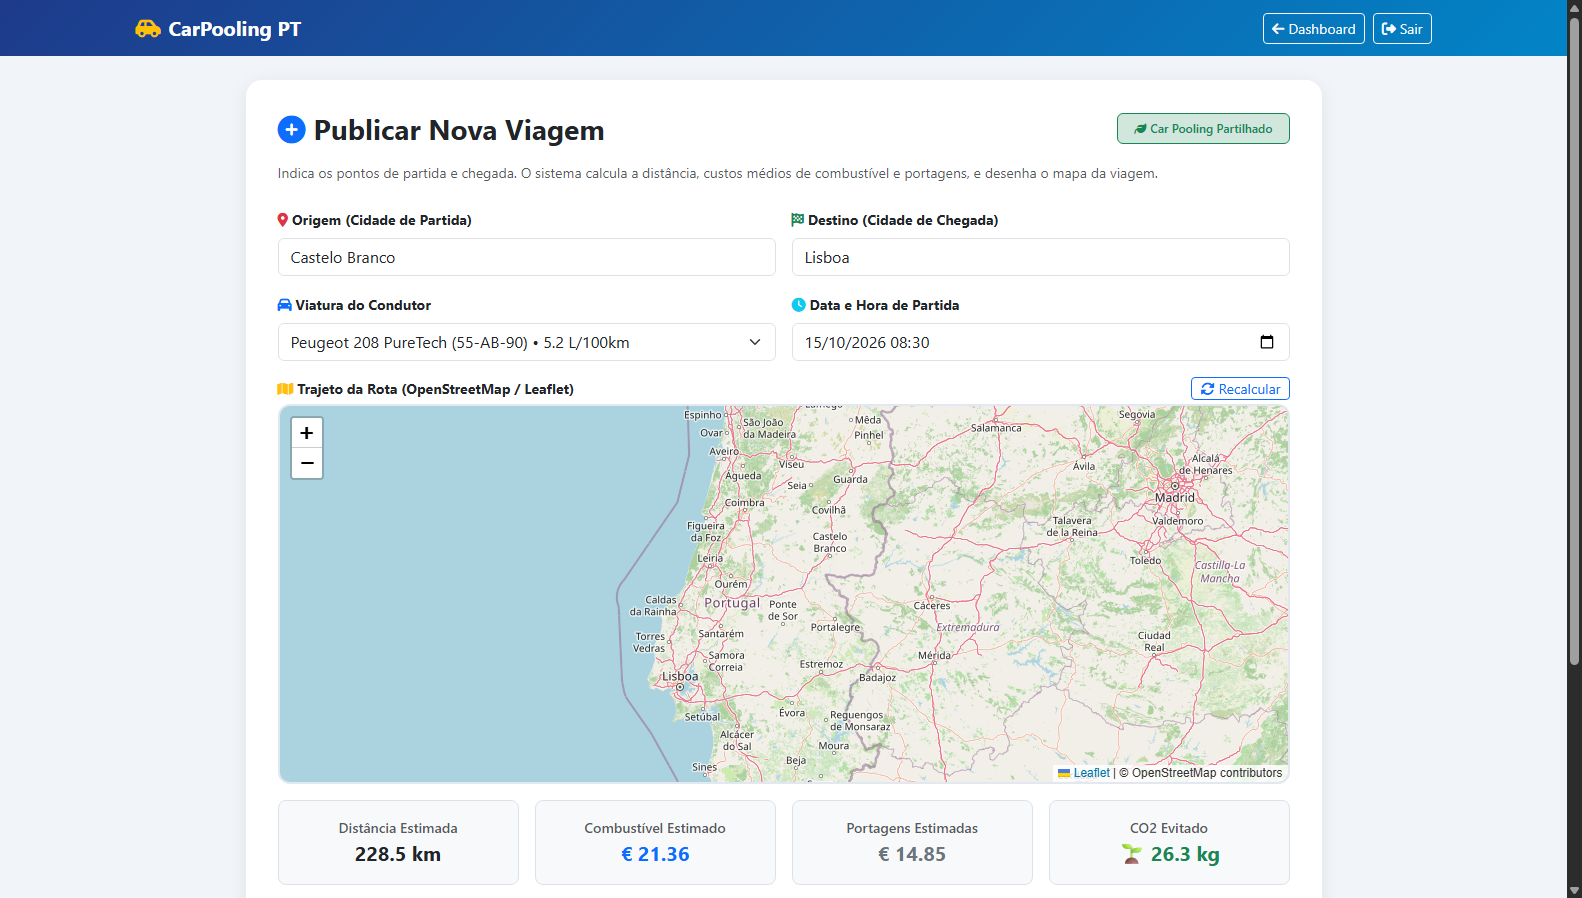
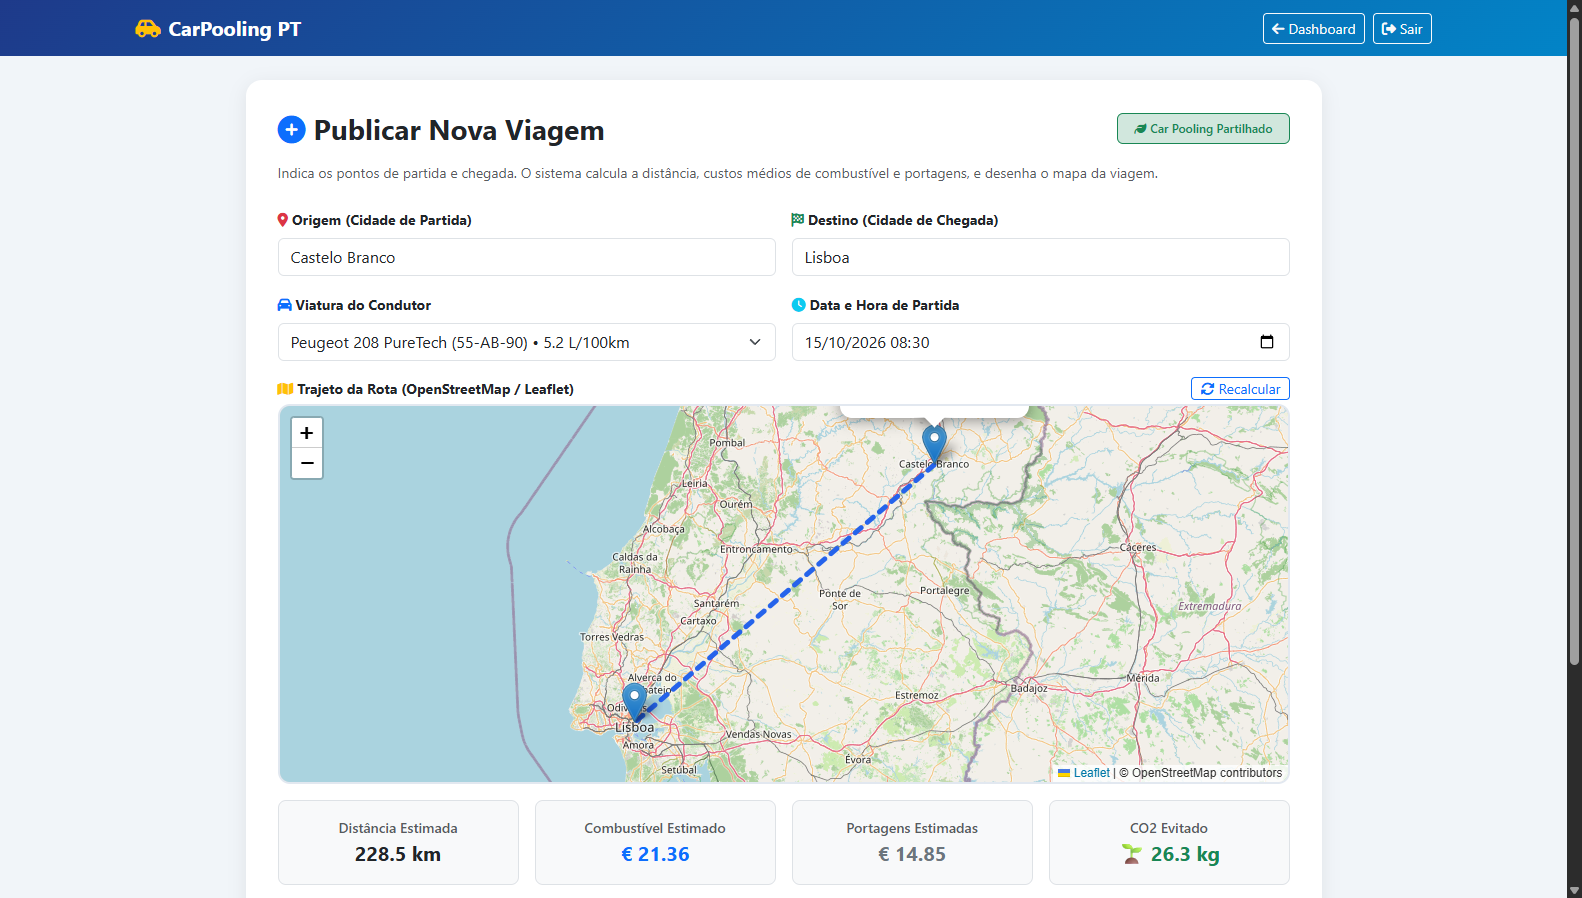
fix: resolve destination coordinates for Leaflet route maps and update screenshots

Changed region(s): [[0.3407, 0.4365, 0.8363, 0.8731]]

diff --git a/frontend-service/src/main/resources/templates/trips/search-trips.html b/frontend-service/src/main/resources/templates/trips/search-trips.html
@@ -187,21 +187,63 @@
         attribution: '&copy; OpenStreetMap'
     }).addTo(map);
 
-    if (trips && trips.length > 0) {
-        trips.forEach(t => {
-            const oLat = t.originLatitude || 39.8222;
-            const oLng = t.originLongitude || -7.4909;
-            const dLat = t.destinationLatitude || 38.7223;
-            const dLng = t.destinationLongitude || -9.1393;
+    const CITY_COORDS = {
+        'Castelo Branco': [39.8222, -7.4909],
+        'Lisboa': [38.7223, -9.1393],
+        'Porto': [41.1579, -8.6291],
+        'Coimbra': [40.2033, -8.4103],
+        'Covilhã': [40.2826, -7.5033],
+        'Guarda': [40.5373, -7.2658],
+        'Évora': [38.5714, -7.9070],
+        'Faro': [37.0194, -7.9304],
+        'Braga': [41.5454, -8.4265],
+        'Aveiro': [40.6405, -8.6538],
+        'Viseu': [40.6566, -7.9125],
+        'Leiria': [39.7438, -8.8078],
+        'Santarém': [39.2369, -8.6850],
+        'Setúbal': [38.5244, -8.8882],
+        'Portalegre': [39.2938, -7.4312],
+        'Beja': [38.0151, -7.8631],
+        'Viana do Castelo': [41.6918, -8.8344],
+        'Vila Real': [41.3006, -7.7441],
+        'Bragança': [41.8061, -6.7567]
+    };
 
-            const markerOrigin = L.marker([oLat, oLng]).addTo(map)
+    function resolveCoords(cityName, lat, lng, defaultCoord) {
+        if (lat && lng && typeof lat === 'number' && typeof lng === 'number') {
+            return [lat, lng];
+        }
+        if (cityName) {
+            const trimmed = cityName.trim();
+            for (const [key, val] of Object.entries(CITY_COORDS)) {
+                if (key.toLowerCase() === trimmed.toLowerCase()) {
+                    return val;
+                }
+            }
+        }
+        return defaultCoord;
+    }
+
+    if (trips && trips.length > 0) {
+        const boundsPoints = [];
+        trips.forEach(t => {
+            const originCoord = resolveCoords(t.departureLocation, t.originLatitude, t.originLongitude, [39.8222, -7.4909]);
+            const destCoord = resolveCoords(t.destinationLocation, t.destinationLatitude, t.destinationLongitude, [41.1579, -8.6291]);
+
+            boundsPoints.push(originCoord, destCoord);
+
+            L.marker(originCoord).addTo(map)
                 .bindPopup(`<b>Partida:</b> ${t.departureLocation}<br><b>Condutor:</b> ${t.driverName || 'Condutor'}<br><b>Preço:</b> €${t.costPerPassenger}`);
-            const markerDest = L.marker([dLat, dLng]).addTo(map)
+            L.marker(destCoord).addTo(map)
                 .bindPopup(`<b>Chegada:</b> ${t.destinationLocation}`);
 
-            const routePoints = [ [oLat, oLng], [dLat, dLng] ];
+            const routePoints = [ originCoord, destCoord ];
             L.polyline(routePoints, { color: '#0284c7', weight: 4, dashArray: '6, 6' }).addTo(map);
         });
+
+        if (boundsPoints.length > 0) {
+            map.fitBounds(boundsPoints, { padding: [50, 50] });
+        }
     }
 </script>
 

diff --git a/frontend-service/src/main/resources/templates/trips/create-trip.html b/frontend-service/src/main/resources/templates/trips/create-trip.html
@@ -229,10 +229,15 @@
                     document.getElementById('distance').value = data.distanceKm;
                     document.getElementById('displayDist').innerText = `${data.distanceKm} km`;
                     
-                    document.getElementById('originLat').value = data.originLat;
-                    document.getElementById('originLng').value = data.originLng;
-                    document.getElementById('destLat').value = data.destinationLat;
-                    document.getElementById('destLng').value = data.destinationLng;
+                    const oLat = data.originLat || 39.8222;
+                    const oLng = (data.originLon !== undefined && data.originLon !== null) ? data.originLon : (data.originLng || -7.4909);
+                    const dLat = data.destinationLat || 38.7223;
+                    const dLng = (data.destinationLon !== undefined && data.destinationLon !== null) ? data.destinationLon : (data.destinationLng || -9.1393);
+
+                    document.getElementById('originLat').value = oLat;
+                    document.getElementById('originLng').value = oLng;
+                    document.getElementById('destLat').value = dLat;
+                    document.getElementById('destLng').value = dLng;
 
                     document.getElementById('estimatedFuelCost').value = data.estimatedFuelCost;
                     document.getElementById('displayFuel').innerText = `€ ${parseFloat(data.estimatedFuelCost).toFixed(2)}`;
@@ -251,8 +256,8 @@
 
                     // Atualizar Leaflet Map
                     routeLayerGroup.clearLayers();
-                    const originCoords = [data.originLat, data.originLng];
-                    const destCoords = [data.destinationLat, data.destinationLng];
+                    const originCoords = [oLat, oLng];
+                    const destCoords = [dLat, dLng];
 
                     L.marker(originCoords).addTo(routeLayerGroup).bindPopup(`<b>Origem:</b> ${origin}`).openPopup();
                     L.marker(destCoords).addTo(routeLayerGroup).bindPopup(`<b>Destino:</b> ${dest}`);

diff --git a/trip-service/src/main/java/com/carpooling/trip/service/TripService.java b/trip-service/src/main/java/com/carpooling/trip/service/TripService.java
@@ -73,28 +73,38 @@ public class TripService {
         BigDecimal estimatedFuelCost = request.getEstimatedFuelCost() != null ? request.getEstimatedFuelCost() : BigDecimal.ZERO;
         BigDecimal estimatedTolls = request.getEstimatedTolls() != null ? request.getEstimatedTolls() : BigDecimal.ZERO;
 
-        if (distance == null || distance <= 0) {
+        if (distance == null || distance <= 0 || originLat == null || destLat == null) {
             try {
                 Map<String, Object> route = locationClient.getRouteBetweenCities(
                         request.getDepartureLocation(), 
                         request.getDestinationLocation()
                 );
                 if (route != null && route.containsKey("distanceKm")) {
-                    distance = ((Number) route.get("distanceKm")).doubleValue();
-                    originLat = ((Number) route.get("originLat")).doubleValue();
-                    originLon = ((Number) route.get("originLon")).doubleValue();
-                    destLat = ((Number) route.get("destinationLat")).doubleValue();
-                    destLon = ((Number) route.get("destinationLon")).doubleValue();
-                    if (route.containsKey("estimatedFuelCost")) {
+                    if (distance == null || distance <= 0) {
+                        distance = ((Number) route.get("distanceKm")).doubleValue();
+                    }
+                    if (originLat == null && route.get("originLat") != null) {
+                        originLat = ((Number) route.get("originLat")).doubleValue();
+                    }
+                    if (originLon == null && route.get("originLon") != null) {
+                        originLon = ((Number) route.get("originLon")).doubleValue();
+                    }
+                    if (destLat == null && route.get("destinationLat") != null) {
+                        destLat = ((Number) route.get("destinationLat")).doubleValue();
+                    }
+                    if (destLon == null && route.get("destinationLon") != null) {
+                        destLon = ((Number) route.get("destinationLon")).doubleValue();
+                    }
+                    if ((estimatedFuelCost == null || estimatedFuelCost.compareTo(BigDecimal.ZERO) == 0) && route.containsKey("estimatedFuelCost")) {
                         estimatedFuelCost = new BigDecimal(route.get("estimatedFuelCost").toString());
                     }
-                    if (route.containsKey("estimatedTolls")) {
+                    if ((estimatedTolls == null || estimatedTolls.compareTo(BigDecimal.ZERO) == 0) && route.containsKey("estimatedTolls")) {
                         estimatedTolls = new BigDecimal(route.get("estimatedTolls").toString());
                     }
                 }
             } catch (Exception e) {
                 log.warn("Erro ao obter rota via Feign: {}. A usar distância por defeito.", e.getMessage());
-                distance = 150.0;
+                if (distance == null) distance = 150.0;
             }
         }
 
